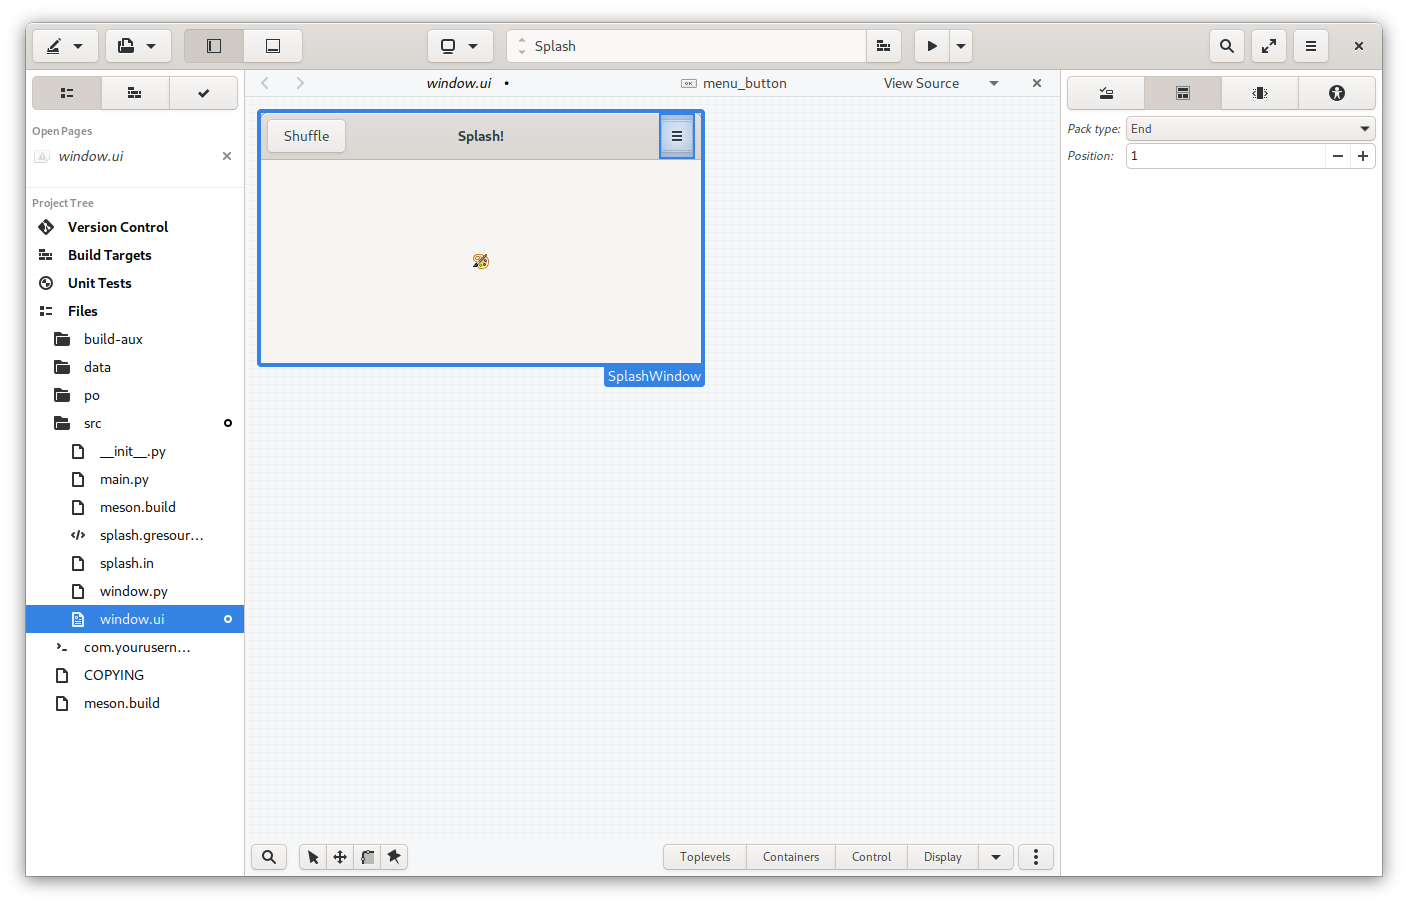
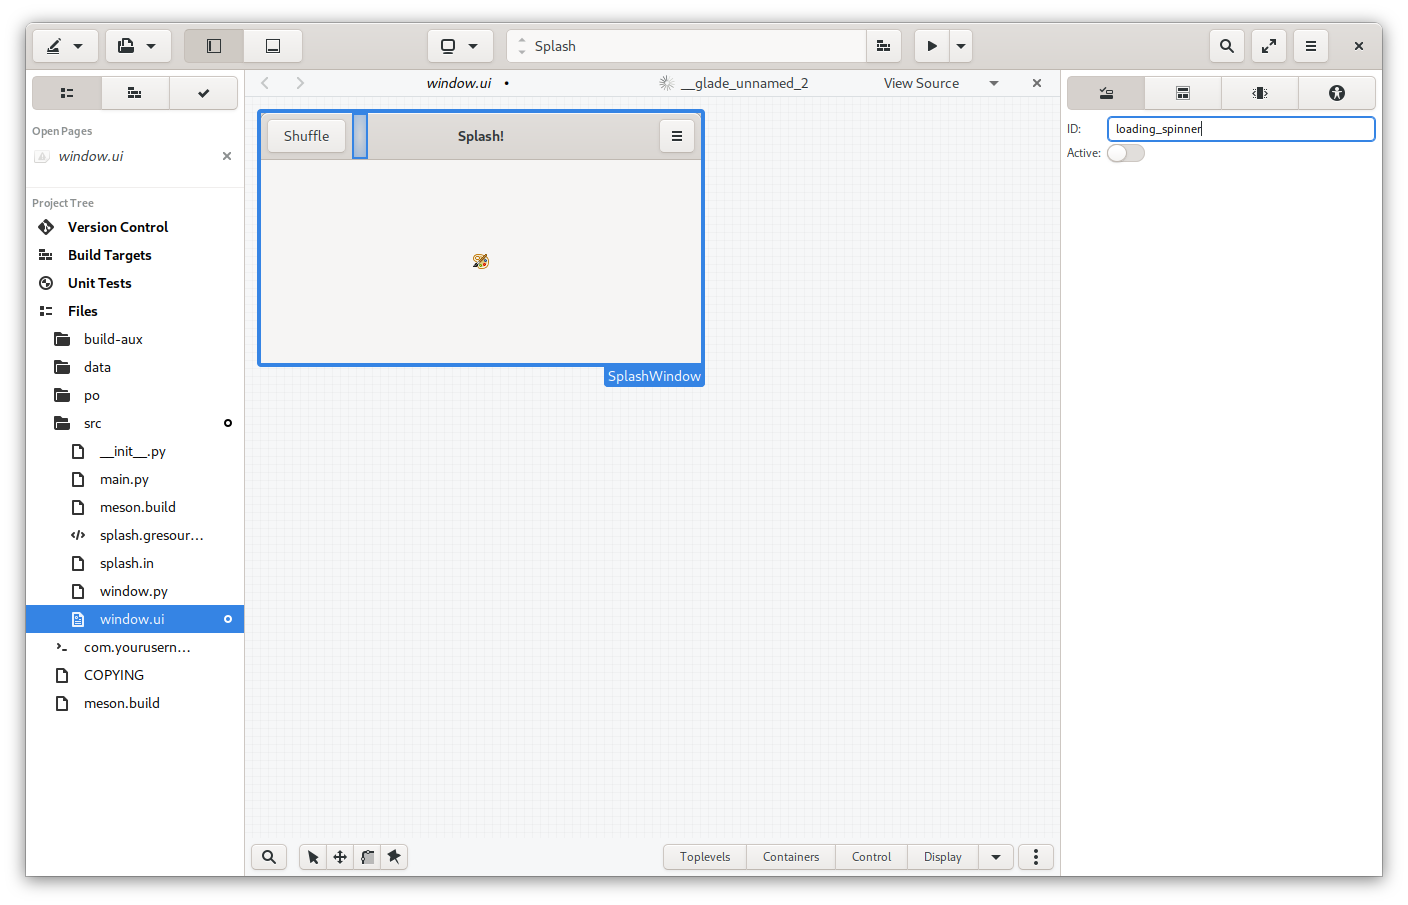
GitBook: [master] 4 pages and 4 assets modified

diff --git a/writing-apps-using-python/understanding-widgets-layouts-and-templates.md b/writing-apps-using-python/understanding-widgets-layouts-and-templates.md
@@ -49,19 +49,25 @@ Now that we understand the basics, we won't be needing any layouts since the UI 
 
 Let us add a menu button, later we can add a pop over menu which will contain an `about` button. On click will show the about dialog.
 
-Let's get back to editing window.ui . Click on the header bar and in the properties sidebar, increment Number of items from 1 to 2. You will see a new blank space pop up.
+Let's get back to editing `window.ui` . Click on the header bar and in the properties sidebar, increment `Number of items` from 1 to 2. You will see a new blank space pop up.
 
-![Blank space for Menu Popover](../.gitbook/assets/image%20%2814%29.png)
+![Creating space for the menu button](../.gitbook/assets/image%20%2818%29.png)
 
-Double click on empty space and add a Gtk.Button. Go to the properties sidebar of the Gtk.Button and set the ID of the button to menu\_button. Under the sub heading Button Content, Check on Add custom content.
+Double click on empty space and add a `Gtk.Button`. Go to the properties sidebar of the `Gtk.Button` and set the ID of the button to `menu_button`. Under the sub heading Button Content, Check on `Add custom content`.
 
-![Blank area for Menu icon](../.gitbook/assets/image%20%2812%29.png)
+Double click and add `Gtk.Image`. In the properties sidebar, Set the ID to `open_menu_icon` and Icon name to `open-menu-symbolic`. 
 
-Double click and add Gtk.Image. In the properties sidebar, Set the ID to open\_menu\_icon and Icon name to open-menu-symbolic. 
+![Setting the menu icon on the button](../.gitbook/assets/image%20%2820%29.png)
 
-![Setting the menu icon on the button](../.gitbook/assets/image%20%2816%29.png)
+Let us move the menu button to the other end. Having two buttons on the same side of the header bar is not good design. Click on the Menu button and go to the second tab in the properties sidebar \(named `child container properties`\). There is an option called `Pack Type`. This decides which side the widgets align. Change the `Pack Type` to `End`. You can see that the menu moved to the right end of the header bar.
 
-Let us move the menu button to the other end. Having two buttons on the same side of the header bar is not good design. Click on the Menu button and go to the second tab in the properties sidebar \(named child container properties\). There is an option called Pack Type. This decides which side the widgets align. Change the Pack Type to End. You can see that the menu moved to the right end of the header bar.
+![Packing the button to the end](../.gitbook/assets/image%20%2819%29.png)
 
-![](../.gitbook/assets/image%20%2817%29.png)
+Let us add a loading spinner as well. So that whenever we are loading an wallpaper from the internet, we can use the spinner to indicate work being done on the background. Go back to the header bar and increment the Number of items to 3. Now again, double click on the empty space and add a Gtk.Spinner. On the properties side bar, set the ID to loading\_spinner.
+
+![Adding the spinner](../.gitbook/assets/image%20%2817%29.png)
+
+Looks good! Let us jump back to code and make use of this template as a base and build on top of it.
+
+> Do not forget to save and commit these changes to your git repository!
 
